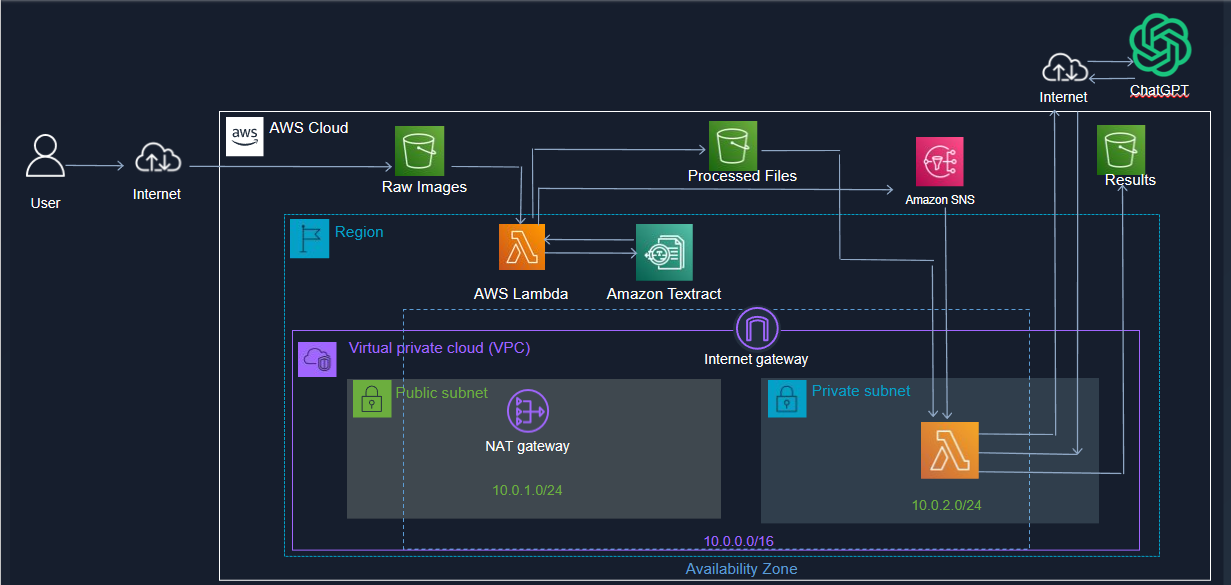
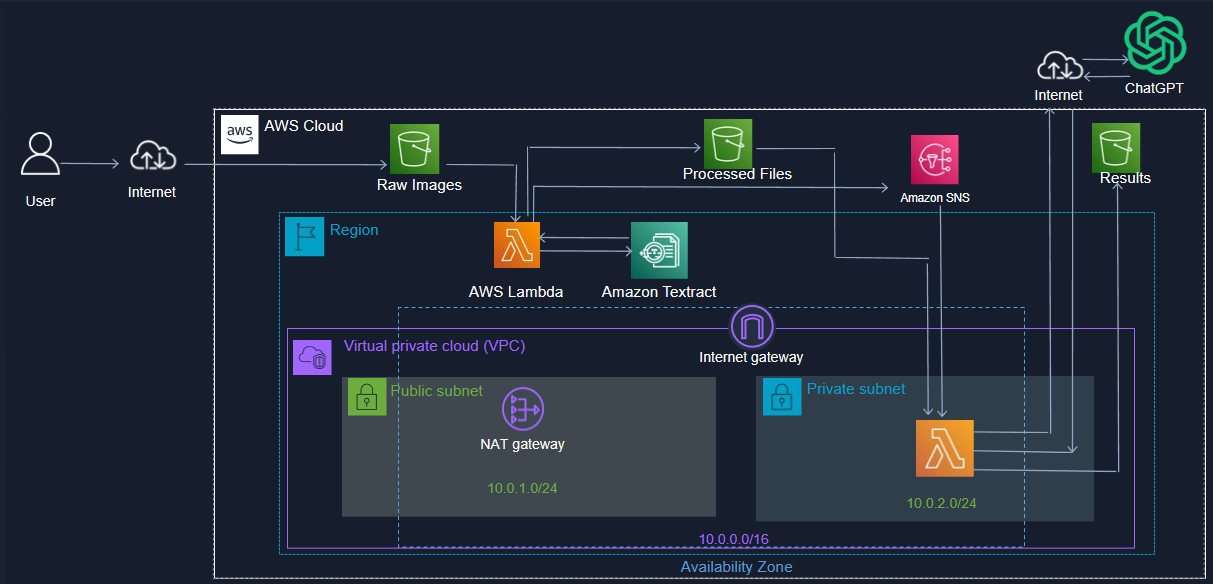
Fix minor issues for topology

diff --git a/extract_text_from_image.py b/extract_text_from_image.py
@@ -45,7 +45,7 @@ def lambda_handler(event, context):
         detectedText = getTextractData(bucket, key)
         writeTextractToS3File(detectedText, os.environ['processed_data_bucket_name'], key)
         
-        return 'Processing Done!'
+        return 'Text extraction completed!'
 
     except Exception as e:
         print(e)
